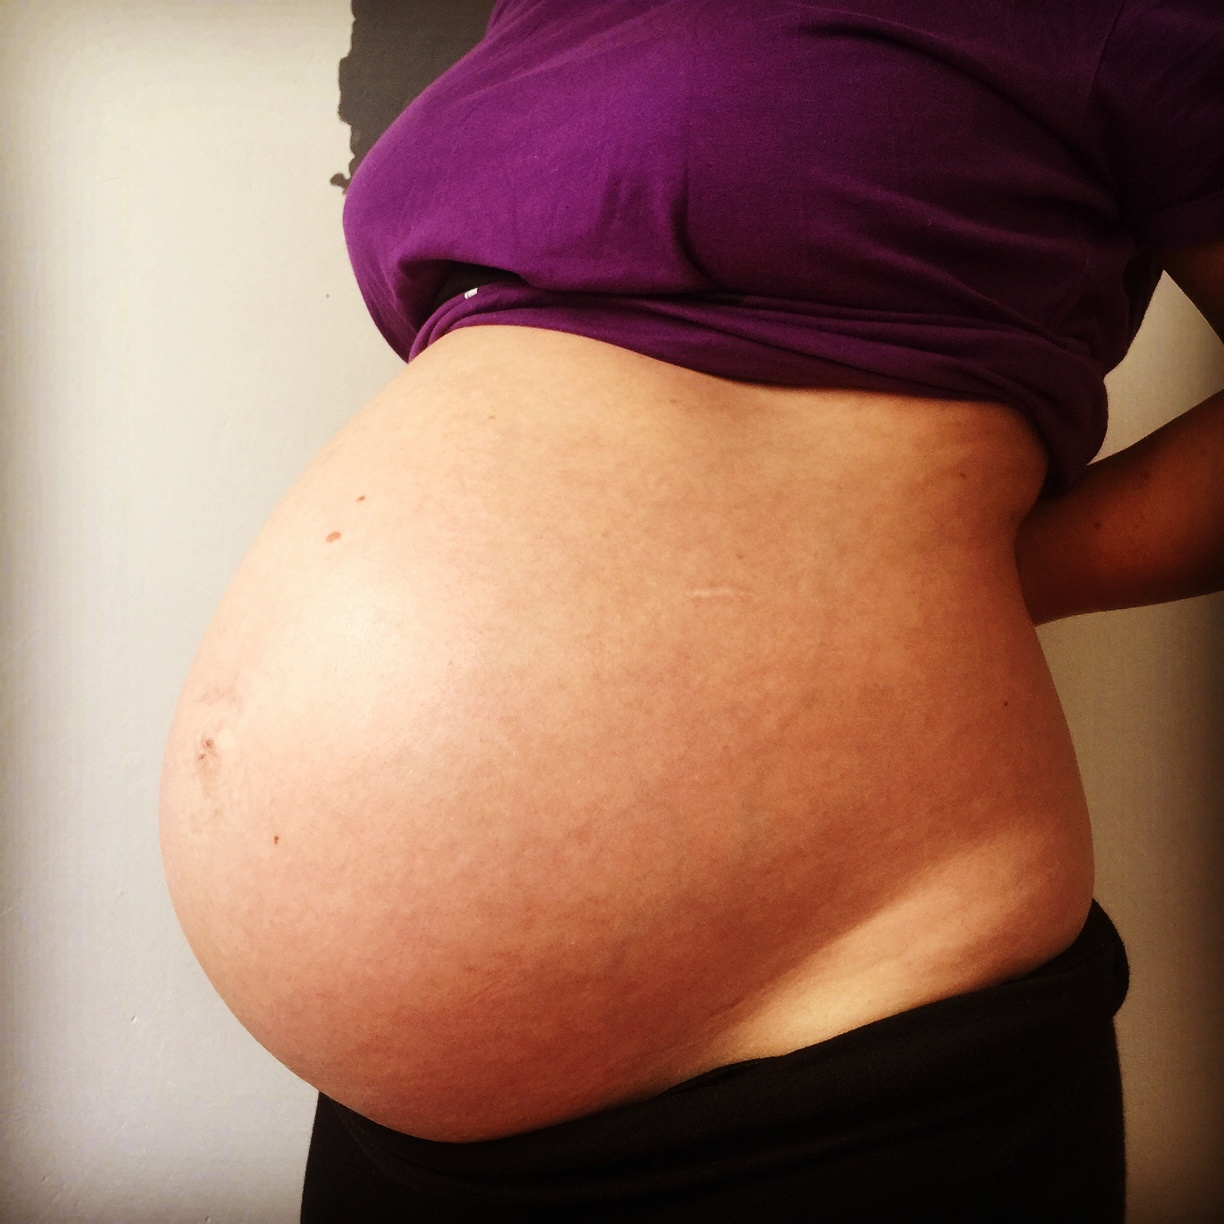
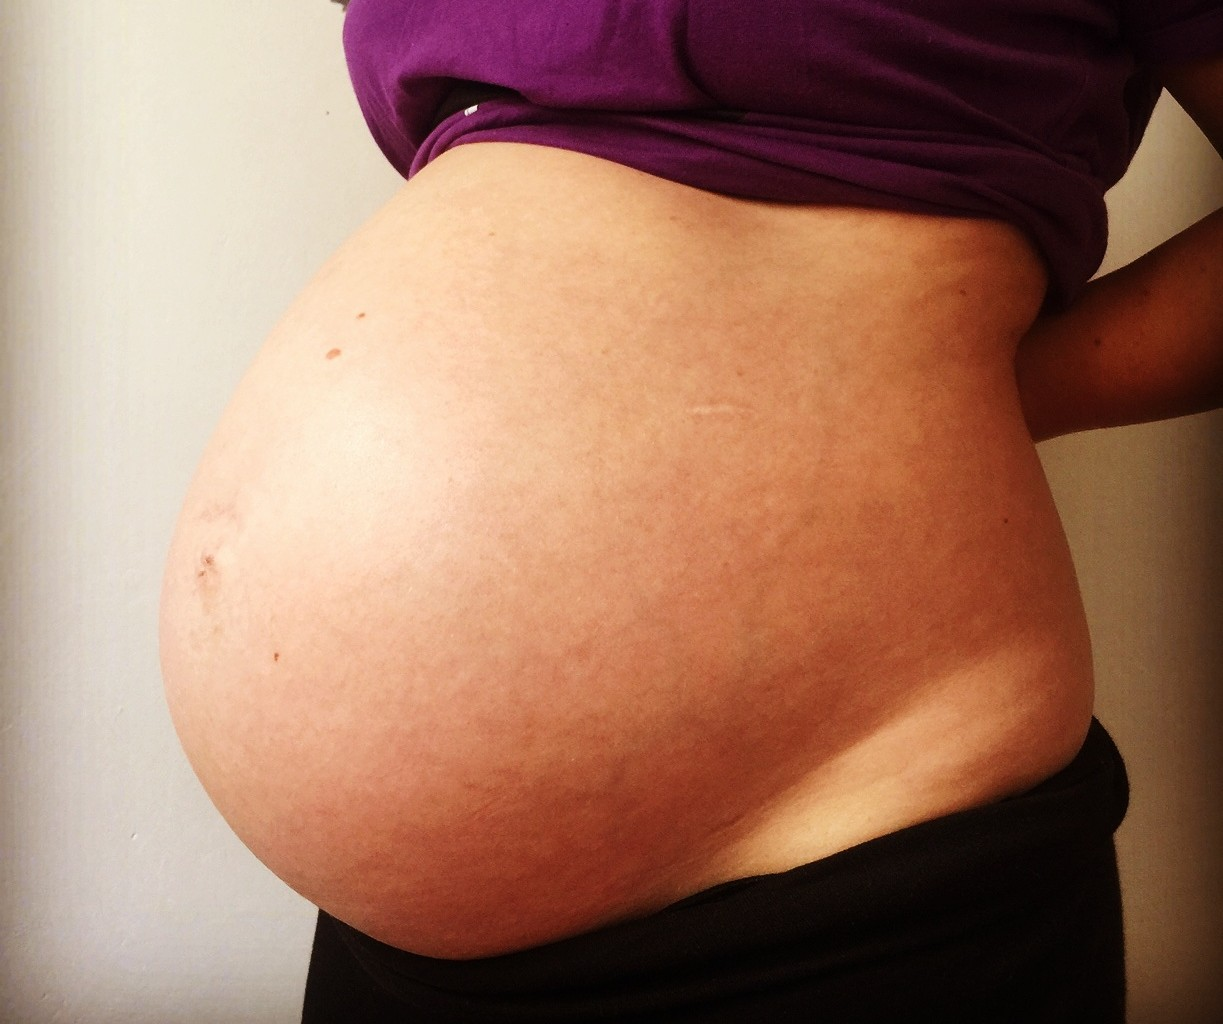
retouches images et marges

diff --git a/public/css/blackburn.css b/public/css/blackburn.css
@@ -89,6 +89,7 @@ i {
 .mini_image{
 height:250px;
 line-height:250px;
+padding: 20px;
 
 }
 

diff --git a/themes/blackburn/static/css/blackburn.css b/themes/blackburn/static/css/blackburn.css
@@ -89,6 +89,7 @@ i {
 .mini_image{
 height:250px;
 line-height:250px;
+padding: 20px;
 
 }
 
